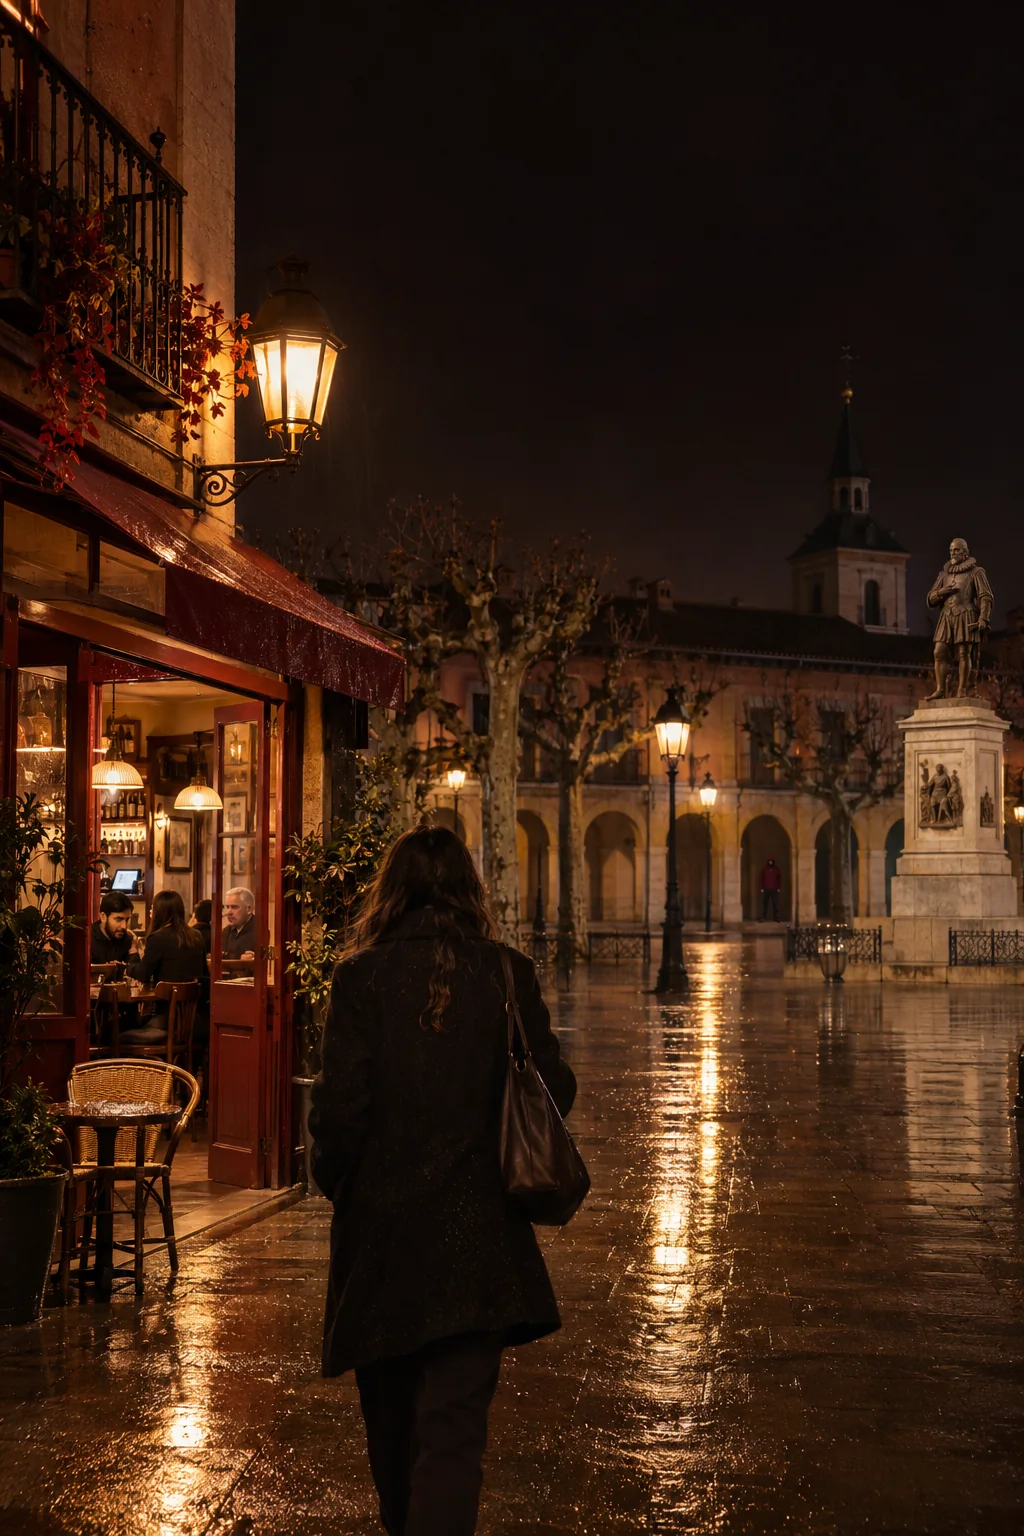
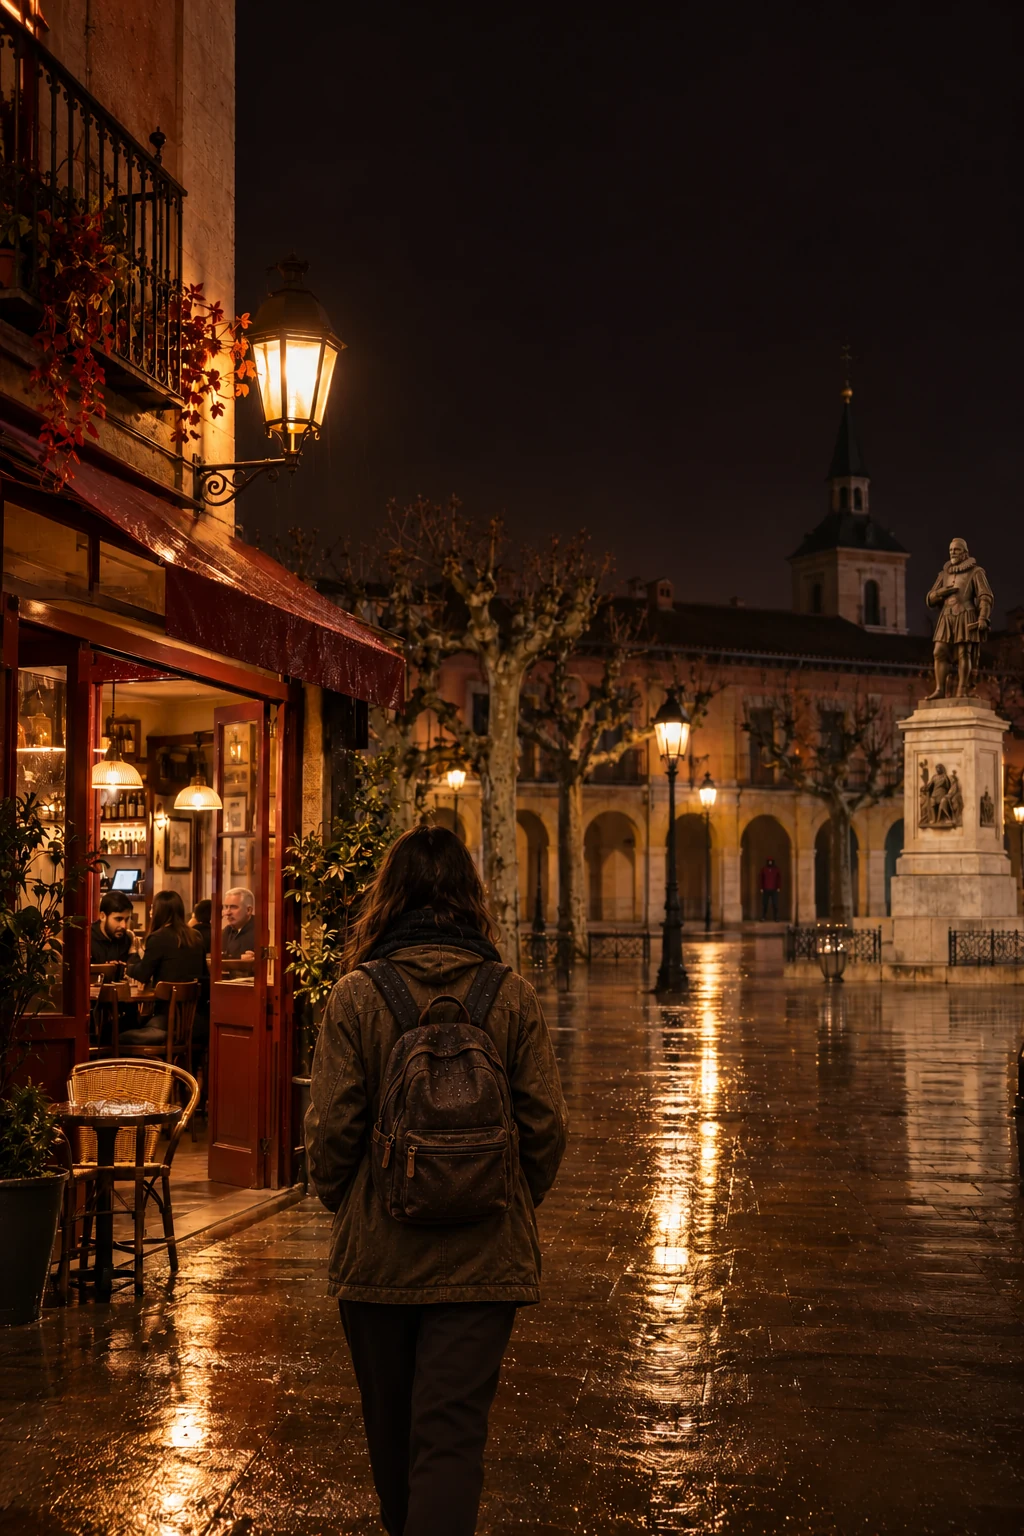
Keep protagonist consistent and add visible rain

diff --git a/script.js b/script.js
@@ -103,7 +103,7 @@ const scenes = [
     ]
   },
   {
-    image: 'assets/story/alcala-plaza-exterior.webp',
+    image: 'assets/story/alcala-plaza-exterior.webp?v=wardrobe-rain-20261124',
     ambience: 'street',
     place: copy('PLAZA DE CERVANTES · CAFÉ ABIERTO', 'CERVANTES SQUARE · CAFÉ OPEN'),
     kicker: copy('PLAZA DE CERVANTES · 23:32', 'CERVANTES SQUARE · 11:32 P.M.'),
@@ -126,7 +126,7 @@ const scenes = [
     ]
   },
   {
-    image: () => decisions.includes('go-cafe') ? 'assets/story/alcala-cafe.webp' : 'assets/story/alcala-portal.webp',
+    image: () => decisions.includes('go-cafe') ? 'assets/story/alcala-cafe.webp' : 'assets/story/alcala-portal.webp?v=wardrobe-rain-20261124',
     ambience: () => decisions.includes('go-cafe') ? 'cafe' : 'street',
     place: () => localized(decisions.includes('go-cafe') ? 'PLAZA DE CERVANTES · CAFÉ' : 'CALLE CARDENAL SANDOVAL Y ROJAS · PORTAL', decisions.includes('go-cafe') ? 'CERVANTES SQUARE · CAFÉ' : 'CARDENAL SANDOVAL Y ROJAS · DOORWAY'),
     kicker: () => localized(decisions.includes('go-cafe') ? 'PLAZA DE CERVANTES · 23:38' : 'SANDOVAL Y ROJAS · 23:41', decisions.includes('go-cafe') ? 'CERVANTES SQUARE · 11:38 P.M.' : 'SANDOVAL Y ROJAS · 11:41 P.M.'),
@@ -451,6 +451,7 @@ function clearSceneInterruption() {
   sceneInterruption.classList.remove('is-visible', 'is-leaving');
   sceneInterruption.replaceChildren();
   story.classList.remove('is-raining');
+  story.classList.remove('is-heavy-rain');
   sceneImageWrap.classList.remove('is-camera-flash', 'is-lamp-failure', 'is-reflection-slip');
 }
 
@@ -552,6 +553,8 @@ function renderScene(index, { languageRefresh = false } = {}) {
   currentScene = index;
   story.dataset.scene = String(index + 1);
   clearSceneInterruption();
+  story.classList.add('is-raining');
+  story.classList.toggle('is-heavy-rain', riskScore >= 2);
   const hotspots = sceneValue(scene.hotspots);
   const sceneChoices = sceneValue(scene.choices);
   sceneImage.src = sceneValue(scene.image);
@@ -606,7 +609,7 @@ function renderEnding({ languageRefresh = false } = {}) {
   textLayoutController = undefined;
   const endedInCafe = ['share-private', 'post-cafe', 'return-light'].includes(lastDecision);
   const choseSupport = ['share-private', 'return-light'].includes(lastDecision);
-  const finalImage = endedInCafe ? 'assets/story/alcala-cafe.webp' : 'assets/story/alcala-portal.webp';
+  const finalImage = endedInCafe ? 'assets/story/alcala-cafe.webp' : 'assets/story/alcala-portal.webp?v=wardrobe-rain-20261124';
   if (!languageRefresh) setAmbientTrack(endedInCafe ? 'cafe' : 'street');
   endingBackdrop.style.backgroundImage = `url("${finalImage}")`;
   endingKicker.textContent = localized(endedInCafe ? 'PLAZA DE CERVANTES · CAFÉ · 23:48' : 'CARDENAL SANDOVAL Y ROJAS · 23:48', endedInCafe ? 'CERVANTES SQUARE · CAFÉ · 11:48 P.M.' : 'CARDENAL SANDOVAL Y ROJAS · 11:48 P.M.');

diff --git a/styles.css b/styles.css
@@ -1292,3 +1292,44 @@ body:is(.view-immersive) .cinematic-story .story__hotspots { transition-duration
   .story__image-wrap.is-lamp-failure::before { animation: none; opacity: .16; }
   .story__image-wrap.is-reflection-slip .story__image { animation: none; }
 }
+.story__rain {
+  position: absolute;
+  z-index: 3;
+  inset: 0;
+  overflow: hidden;
+  pointer-events: none;
+  opacity: 0;
+  transition: opacity .8s ease;
+}
+.story.is-raining .story__rain { opacity: .38; }
+.story.is-heavy-rain .story__rain { opacity: .58; }
+.story__rain i {
+  position: absolute;
+  inset: -80% -35%;
+  display: block;
+  background-image: repeating-linear-gradient(106deg, transparent 0 25px, rgba(224,239,245,.48) 26px, transparent 27px 53px);
+  background-size: 107px 139px;
+  transform: translate3d(0,-12%,0);
+  animation: screen-rain-fall .78s linear infinite;
+  will-change: transform;
+}
+.story__rain i:nth-child(2) {
+  opacity: .58;
+  background-size: 151px 191px;
+  background-position: 41px 13px;
+  animation-duration: 1.12s;
+  animation-delay: -.43s;
+}
+.story__rain i:nth-child(3) {
+  opacity: .36;
+  background-size: 73px 113px;
+  background-position: 19px 37px;
+  animation-duration: .62s;
+  animation-delay: -.27s;
+}
+.story.is-heavy-rain .story__rain i { animation-duration: .58s; }
+@keyframes screen-rain-fall { to { transform: translate3d(-12%,24%,0); } }
+@media (prefers-reduced-motion: reduce) {
+  .story__rain { opacity: .2; }
+  .story__rain i { animation: none; transform: none; }
+}

diff --git a/index.html b/index.html
@@ -24,8 +24,8 @@
   <meta name="twitter:image" content="https://cataplum1414.github.io/tu-sombra-digital/assets/story/cartografo-horizontal.webp">
   <meta name="twitter:image:alt" content="El Cartógrafo, encapuchado, observa bajo la lluvia una calle nocturna de Alcalá.">
   <link rel="icon" type="image/svg+xml" href="favicon.svg">
-  <link rel="stylesheet" href="styles.css?v=story-atmosphere-20261124">
-  <script type="module" src="script.js?v=scene-sound-motion-20261124"></script>
+  <link rel="stylesheet" href="styles.css?v=rain-character-continuity-20261124">
+  <script type="module" src="script.js?v=rain-character-continuity-20261124"></script>
   <script src="visit-counter.js?v=counter-20261123" defer></script>
   <script type="module" src="motion.js?v=alcala-audio-adaptativo-20261123"></script>
 </head>
@@ -84,6 +84,7 @@
       <div class="story__image-wrap" id="scene-image-wrap" aria-hidden="true">
         <img class="story__image" id="scene-image" src="assets/story/alcala-night.webp" alt="" fetchpriority="high">
         <div class="story__film-grain"></div>
+        <div class="story__rain" aria-hidden="true"><i></i><i></i><i></i></div>
       </div>
       <div class="story__topline"><span id="scene-place">CALLE MAYOR · CASA NATAL DE CERVANTES</span><span id="progress-number">ESCENA 1 DE 4</span></div>
       <div class="scene-interruption" id="scene-interruption" role="status" aria-live="polite" hidden></div>
